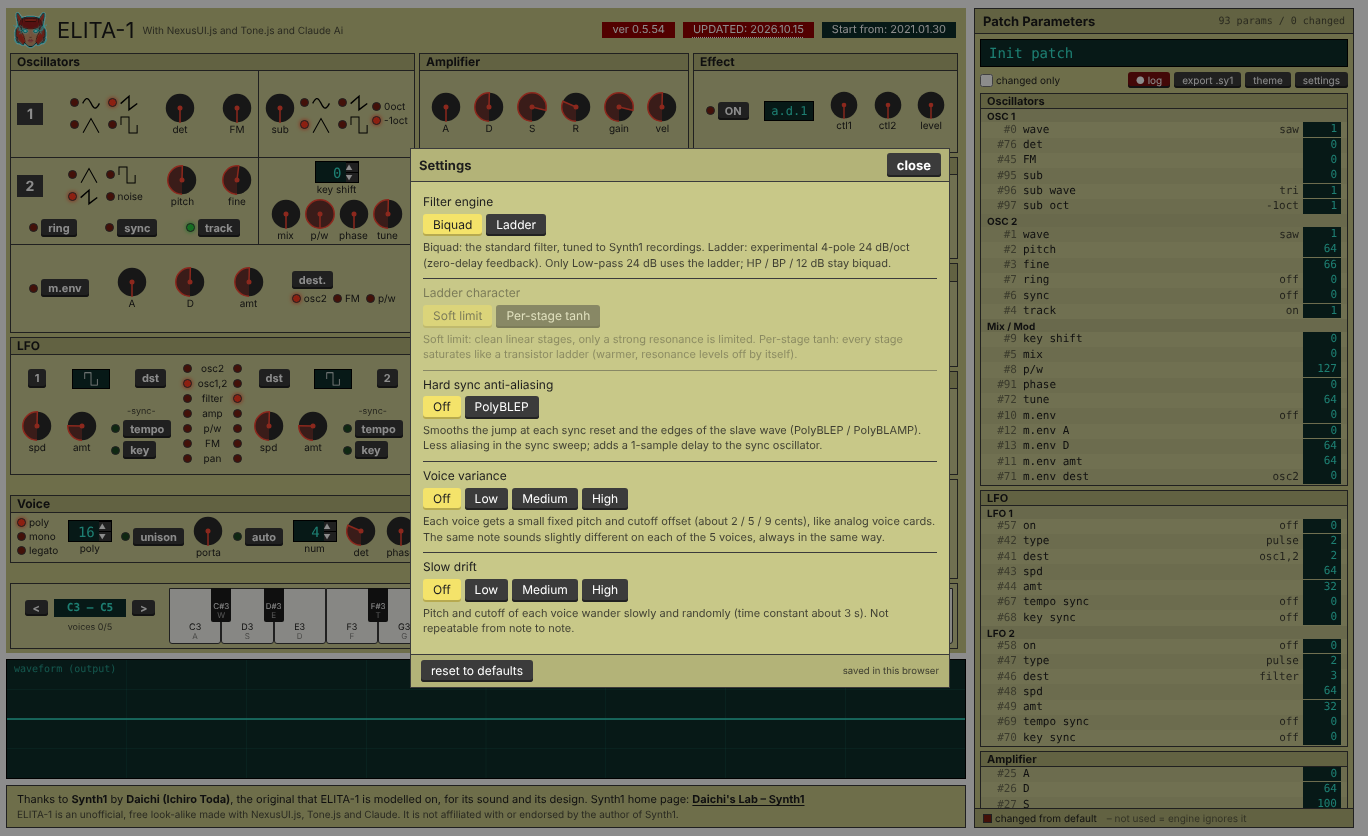
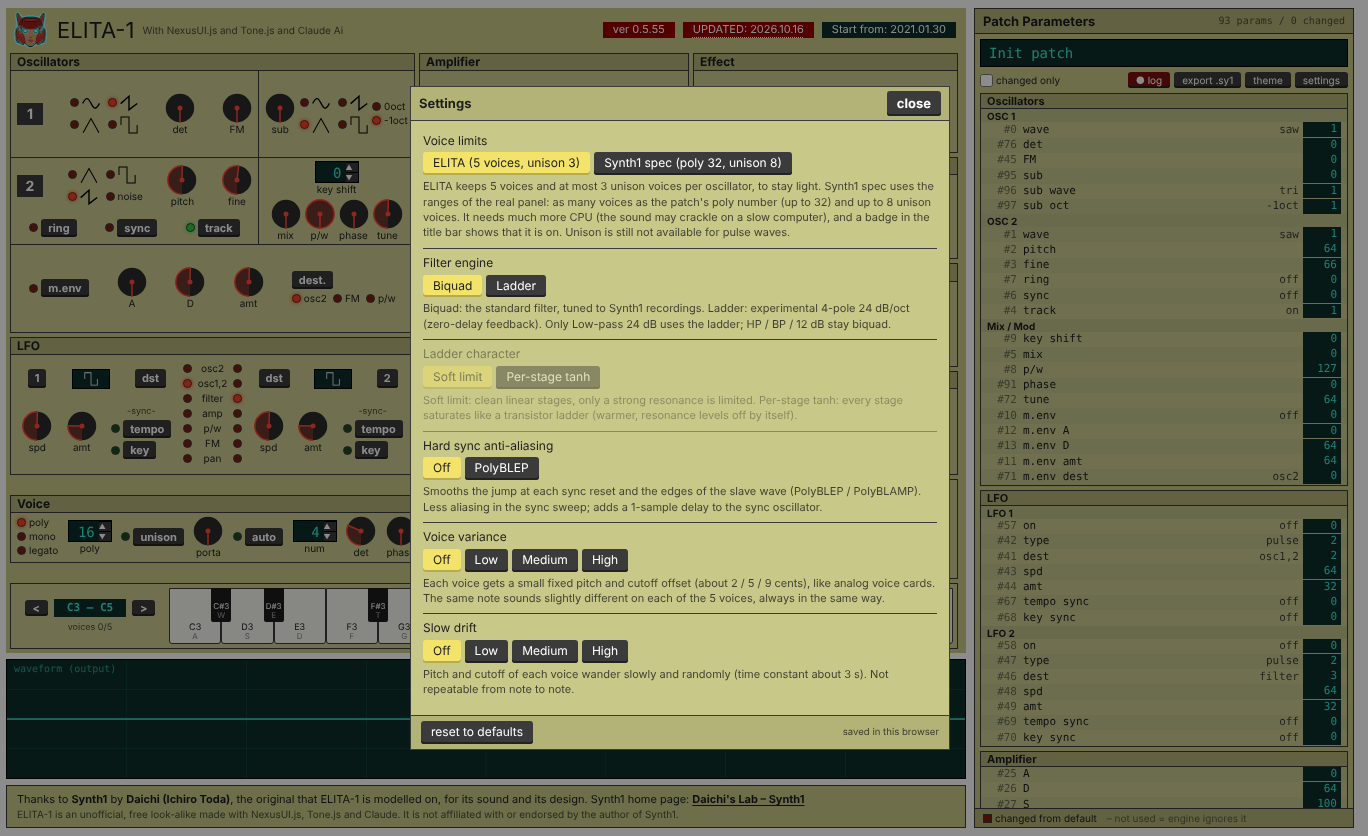
ver 0.5.55 "Synth1"モードを追加
ELITA: 既定です。従来どおり 5 ボイス、unison は 1 オシレーターあたり最大 3 本です。
Synth1 spec: 実機の画面の範囲に合わせます。ボイス数はパッチの poly 値のとおり最大 32、unison は最大 8 本です。

Synth1 spec のあいだは、次の 3 か所でわかるようにしてあります。

タイトルバーに、黄色の「SYNTH1 SPEC MODE」
鍵盤横のボイス表示に「(Synth1 spec)」
Settings ボタンが黄色

選択はブラウザーに保存されます。再読み込みしても、音が始まった時点で反映されます。

確認できたこと

動作は次のとおり確認しました。エラーは出ていません。
5 → 16 → 32 → 5 への切り替え
unison 8（fat 波形 ×8）
poly 32 で 24 音同時
元に戻したあとも普通に鳴ること
ボイス数は、以前は起動時に 5 つ作って固定でした。今回、実行時に増減できるようにしました。減らすときは、余分なボイスを音の経路から外します。

注意点

CPU 負荷: poly 32 は負荷がとても大きいです。この環境のソフトウェア音声では、待機中でも実時間の約半分の速さにしかなりませんでした。poly 16 は実時間どおりです。お使いの PC での目安は未測定です。
pulse 波: Synth1 spec でも、pulse 波の unison には対応していません。Settings の説明にも書いてあります。
今後の課題: 待機中のボイスを止めて負荷を下げる工夫は、今回は入れていません。

https://claude.ai/share/1b4d78f3-2d2d-4339-9bd0-6ce2148783c9

Changed region(s): [[0.2763, 0.0933, 0.7061, 0.9019]]

diff --git a/js/settings.js b/js/settings.js
@@ -1,10 +1,14 @@
 /* Settings window ("settings" button under Patch Parameters).
    Engine options that are not patch parameters. The choice is kept in this browser (localStorage); nothing is sent anywhere.
    Defaults = the sound of ver 0.5.53 (everything below is off or "standard").
-   ELITA.settings = {get(), set(key, value), reset(), items}      keys: filter / ladder / syncAA / slop / drift */
+   ELITA.settings = {get(), set(key, value), reset(), items}      keys: limits / filter / ladder / syncAA / slop / drift
+   "Voice limits" = Synth1 spec lifts the ELITA limits (5 voices, unison 3) to the ranges of the real Synth1 panel (poly up to 32 = the patch's poly number, unison up to 8).
+   While it is on, a badge in the title bar says so. */
 (function () {
   const E = window.ELITA, S = E.core, KEY = 'elita1-settings';
   const ITEMS = [
+    {k: 'limits', title: 'Voice limits', opts: [['elita', 'ELITA (5 voices, unison 3)'], ['synth1', 'Synth1 spec (poly 32, unison 8)']],
+     note: 'ELITA keeps 5 voices and at most 3 unison voices per oscillator, to stay light. Synth1 spec uses the ranges of the real panel: as many voices as the patch\'s poly number (up to 32) and up to 8 unison voices. It needs much more CPU (the sound may crackle on a slow computer), and a badge in the title bar shows that it is on. Unison is still not available for pulse waves.'},
     {k: 'filter', title: 'Filter engine', opts: [['biquad', 'Biquad'], ['ladder', 'Ladder']],
      note: 'Biquad: the standard filter, tuned to Synth1 recordings. Ladder: experimental 4-pole 24 dB/oct (zero-delay feedback). Only Low-pass 24 dB uses the ladder; HP / BP / 12 dB stay biquad.'},
     {k: 'ladder', title: 'Ladder character', opts: [['soft', 'Soft limit'], ['stage', 'Per-stage tanh']], needs: ['filter', 'ladder'],
@@ -16,16 +20,26 @@
     {k: 'drift', title: 'Slow drift', opts: [[0, 'Off'], [1, 'Low'], [2, 'Medium'], [3, 'High']],
      note: 'Pitch and cutoff of each voice wander slowly and randomly (time constant about 3 s). Not repeatable from note to note.'},
   ];
-  const DEF = {filter: 'biquad', ladder: 'soft', syncAA: 0, slop: 0, drift: 0};
+  const DEF = {limits: 'elita', filter: 'biquad', ladder: 'soft', syncAA: 0, slop: 0, drift: 0};
   const SLOP = [0, 2, 5, 9], DRIFT = [0, 2, 4, 8];
   const ok = (k, v) => { const it = ITEMS.find(x => x.k === k); return !!it && it.opts.some(o => o[0] === v); };
   let cur = Object.assign({}, DEF);
   try { const s = JSON.parse(localStorage.getItem(KEY) || 'null'); if (s && typeof s === 'object') Object.keys(DEF).forEach(k => { if (ok(k, s[k])) cur[k] = s[k]; }); } catch (e) { /* no storage */ }
   const save = () => { try { localStorage.setItem(KEY, JSON.stringify(cur)); } catch (e) { /* ignore */ } };
   function apply() {
+    S.LIMITS = cur.limits; badge();
     S.FILTER = cur.filter; S.LADDER_SAT = cur.ladder; S.SYNC_AA = !!cur.syncAA;
     S.analog.slop = SLOP[cur.slop]; S.analog.drift = DRIFT[cur.drift];
     if (E.engine && E.engine.refresh) E.engine.refresh();
+  }
+  // Title-bar badge and highlighted settings button while the Synth1 spec is on
+  function badge() {
+    const on = cur.limits === 'synth1', t = document.getElementById('title');
+    let b = document.getElementById('s1mode');
+    if (on && !b && t) { b = document.createElement('h3'); b.id = 's1mode'; b.className = 's1mode'; b.title = 'Settings > Voice limits: Synth1 spec (poly up to 32, unison up to 8)'; b.textContent = 'SYNTH1 SPEC MODE'; const v = t.querySelector('.version'); t.insertBefore(b, v || null); }
+    if (b) b.hidden = !on;
+    const sb = document.getElementById('pset'); if (sb) sb.classList.toggle('s1on', on);
+    document.body.classList.toggle('s1spec', on);
   }
   function set(k, v) { if (!ok(k, v)) return false; cur[k] = v; save(); apply(); paint(); return true; }
   function reset() { cur = Object.assign({}, DEF); save(); apply(); paint(); }
@@ -48,7 +62,11 @@
   #setdlg .nt{ margin:4px 0 0; font-size:11px; opacity:.8; }
   #setdlg .tf{ display:flex; gap:6px; padding:5px 10px; border-top:1px solid var(--dk); background:var(--hd); align-items:center; }
   #setdlg .tf small{ margin-left:auto; opacity:.8; }
-  #plist .tools button#pset{ background:var(--dk); }`;
+  #plist .tools button#pset{ background:var(--dk); }
+  #plist .tools button#pset.s1on{ background:var(--hi); color:var(--hi-fg); }
+  #title .s1mode{ padding:1px 10px; background:var(--hi); color:var(--hi-fg); font-weight:700; font-size:11px; letter-spacing:.04em; white-space:nowrap; }
+  #title .s1mode[hidden]{ display:none; }
+  #vc{ white-space:nowrap; }`;
   document.head.appendChild(css);
   const dlg = document.createElement('dialog'); dlg.id = 'setdlg';
   dlg.innerHTML = '<div class="th"><span>Settings</span><button type="button" id="setclose">close</button></div><div class="tb">' +
@@ -70,5 +88,5 @@
   dlg.querySelector('#setclose').onclick = () => dlg.close();
   const tools = document.querySelector('#plist .tools');
   if (tools) { const b = document.createElement('button'); b.type = 'button'; b.id = 'pset'; b.textContent = 'settings'; b.title = 'engine settings (filter, hard sync, analog character)'; tools.appendChild(b); b.onclick = () => { paint(); dlg.showModal(); }; }
-  paint();
+  badge(); paint();
 })();

diff --git a/js/engine.js b/js/engine.js
@@ -6,7 +6,7 @@
    Shared state lives in ELITA.core (S). */
 (function () {
 const E = window.ELITA, P = E.params, S = (E.core = E.core || {});
-const {POLY, UNI_MAX} = S, {arp, arpStop, allOff, voiceOn, voiceOff, noteOn, noteOff} = S;
+const {arp, arpStop, allOff, voiceOn, voiceOff, noteOn, noteOff} = S;
 let prevMode = null, prevArp = false;
 async function initAudio() {
   try {
@@ -34,10 +34,20 @@ async function initAudio() {
   S.delay.output.chain(S.panner, S.lim, S.clip, Tone.getDestination());
   S.clip.connect(S.wave);
   window.__n = {fx: S.fx, master: S.master, eq: S.eq, toneLo: S.toneLo, toneHi: S.toneHi, chorus: S.chorus, chorus2: S.chorus2, dli: S.delay.input, dlo: S.delay.output, panner: S.panner, lim: S.lim, clip: S.clip};
-  S.voices = Array.from({length: POLY}, (_, i) => { const v = new S.Voice(S.master, S.lfoOut); v.idx = i; return v; });
+  S.voices = [];
   applyAll();
 }
+// Voice count: ELITA limits = 5 fixed; Synth1 spec = the poly number of the patch (#94, 1..32). Grows on demand and removes the extra voices (their oscillators would keep running otherwise).
+function syncVoices() {
+  const syn = S.LIMITS === 'synth1';
+  S.UNI_MAX = syn ? S.SYNTH1_LIM.uni : 3;
+  S.POLY = syn ? Math.max(1, Math.min(S.SYNTH1_LIM.poly, P[94] || 16)) : 5;
+  if (!S.voices || !S.master) return;
+  if (S.voices.length > S.POLY) { allOff(); S.voices.splice(S.POLY).forEach(v => v.dispose()); }
+  while (S.voices.length < S.POLY) { const v = new S.Voice(S.master, S.lfoOut); v.idx = S.voices.length; S.voices.push(v); }
+}
 function applyAll() {
+  syncVoices();
   S.dbgParams();
   if (P[38] !== prevMode) { prevMode = P[38]; allOff(); }
   if (!!P[59] !== prevArp) { prevArp = !!P[59]; arp.held.length = 0; arpStop(); allOff(); }   // switching the arpeggiator releases held notes   // release everything when the play mode changes
@@ -65,6 +75,6 @@ window.ELITA.onChange = () => refresh();
   window.ELITA.setBpm = v => { v = set(v); if (b) b.value = v; }; }
 window.ELITA.bpm = () => S.BPM;
 setInterval(() => { if (S.voices && S.analog.drift > 0) S.voices.forEach(v => v.setAnalog(S.analog, true)); }, 100);   // slow drift (Settings), only while it is on
-window.ELITA.engine = {refresh, filterMode: m => { if (m === 'ladder' || m === 'biquad') { if (E.settings) E.settings.set('filter', m); else { S.FILTER = m; refresh(); } } return S.FILTER; }, bend: s => { S.BEND = +s || 0; if (S.voices) S.voices.forEach(v => v.freq && v.setPitch(P)); }, rawOn: voiceOn, rawOff: voiceOff, lfoHz: () => S.lfos.map(l => l.frequency.value), start, noteOn, noteOff, allOff, voices: () => S.voices, wave: () => S.wave, POLY, used: S.usedSet, unisonMax: UNI_MAX};
+window.ELITA.engine = {refresh, get POLY() { return S.POLY; }, get unisonMax() { return S.UNI_MAX; }, get limits() { return S.LIMITS; }, filterMode: m => { if (m === 'ladder' || m === 'biquad') { if (E.settings) E.settings.set('filter', m); else { S.FILTER = m; refresh(); } } return S.FILTER; }, bend: s => { S.BEND = +s || 0; if (S.voices) S.voices.forEach(v => v.freq && v.setPitch(P)); }, rawOn: voiceOn, rawOff: voiceOff, lfoHz: () => S.lfos.map(l => l.frequency.value), start, noteOn, noteOff, allOff, voices: () => S.voices, wave: () => S.wave, used: S.usedSet};
 S.scan.push(applyAll);
 })();

diff --git a/js/voice.js b/js/voice.js
@@ -1,7 +1,7 @@
 /* ELITA-1 voice: oscillators (+unison / sub / ring / sync / FM / noise) -> filter -> amp, plus the envelopes and LFO sends of one note. */
 (function () {
 const E = window.ELITA, P = E.params, S = (E.core = E.core || {});
-const {UNI_MAX, REFV, SUBW, OSC1, OSC2, FTYPE, time, CUT_OCT, Q_OFF, cutoff, cutoffLad, LAD_K} = S;
+const {REFV, SUBW, OSC1, OSC2, FTYPE, time, CUT_OCT, Q_OFF, cutoff, cutoffLad, LAD_K} = S;
 const SL1 = [-0.8, 0.7, -0.45, 0.9, -1], SL2 = [0.6, -0.9, 0.75, -0.5, 0.35], SLC = [0.6, -0.4, 0.9, -0.7, 0.2];   // per-voice offsets (-1..1) for OSC1 / OSC2 pitch and the cutoff
 class Voice {
   constructor(out, lfoSrc) {
@@ -26,6 +26,7 @@ class Voice {
     this.fout.connect(this.satPre); this.satPre.connect(this.satShaper); this.satShaper.connect(this.satWet); this.satWet.connect(this.amp);
     this.amp.connect(this.vg); this.vg.connect(out);
     this.sd = lfoSrc.map(l => { const g = new Tone.Gain(0); l.connect(g); return g; });   // LFO depth sends
+    this.lfoSrc = lfoSrc;
     this.dst = [[], []];
     // Sub oscillator: follows OSC1 pitch (0 / -1 oct), no unison
     this.so = new Tone.OmniOscillator({type: 'sine'}); this.sg = new Tone.Gain(0);
@@ -87,6 +88,18 @@ class Voice {
       this.r1.stop(); this.r2.stop(); this.gr1.gain.value = this.gr2.gain.value = 0;
     }
   }
+  // Remove the voice from the audio graph (used when Settings > Voice limits or the poly number lowers the voice count)
+  dispose() {
+    try { this.up(); } catch (e) { /* not started */ }
+    this.lfoSrc.forEach((l, i) => { try { l.disconnect(this.sd[i]); } catch (e) { /* already gone */ } });
+    Object.keys(this).forEach(k => {
+      const x = this[k];
+      (Array.isArray(x) ? x : [x]).forEach(n => {
+        if (!n || typeof n !== 'object' || n === this.lfoSrc) return;
+        try { if (typeof n.dispose === 'function') n.dispose(); else if (typeof n.disconnect === 'function' && !(n instanceof AudioParam)) n.disconnect(); } catch (e) { /* already disposed */ }
+      });
+    });
+  }
   setType(o, t) { if (o.type !== t) o.type = t; }
   // switch the signal path between the biquad filter and the ladder (only reconnects when the choice changed)
   setLadder(on) {
@@ -125,7 +138,7 @@ class Voice {
   // oscillators: unison, mix, ring / sync / noise, sub.  Returns which extra copies are active (lay = unison pitch layer, pan = unison stereo width).
   applyOsc(p) {
     // Unison: fat oscillators (not available for pulse)
-    const uni = p[73] ? Math.max(1, Math.min(UNI_MAX, p[93])) : 1, spread = p[75] / 127 * 100;
+    const uni = p[73] ? Math.max(1, Math.min(S.UNI_MAX, p[93])) : 1, spread = p[75] / 127 * 100;
     const shape = (o, t) => {
       const ty = uni > 1 && t !== 'pulse' ? 'fat' + t : t;
       this.setType(o, ty);

diff --git a/js/calib.js b/js/calib.js
@@ -1,7 +1,9 @@
 /* ELITA-1 calibration: wave tables, unit curves (time, cutoff) and the shared state object ELITA.core. Edit curves here. */
 (function () {
 const E = window.ELITA, S = (E.core = E.core || {});
-const POLY = 5, UNI_MAX = 3, REFV = 0.8;   // voices / unison voices per oscillator (clamped to UNI_MAX: CPU load and a repeatable timbre) / reference velocity (0.8 = PC keys)
+const POLY = 5, UNI_MAX = 3, REFV = 0.8;   // ELITA limits: voices / unison voices per oscillator (clamped: CPU load and a repeatable timbre) / reference velocity (0.8 = PC keys)
+// Settings > Voice limits: 'elita' (the numbers above) or 'synth1' (the ranges of the real Synth1 panel: poly 1..32, unison num 1..8). S.POLY = number of voices that exist, S.UNI_MAX = unison clamp; both are set by engine.js / settings.js.
+const SYNTH1_LIM = {poly: 32, uni: 8};
 // LFO type (#42 / #47): 1 = triangle, 2 = pulse (Telephone patch) and 3 = S&H (Computer patch) are confirmed on Synth1; 0 = saw, 4 = sine, 5 = smooth random are unverified.
 // 3 and 5 are not oscillator waves: they are generated by a random-value timer (see applyFx)
 const LFO_WAVE = ['sawtooth','triangle','square',null,'sine',null];
@@ -39,7 +41,7 @@ const cutoffLad = v => interp(CUT_TAB_LAD, v);
 // Settings (js/settings.js writes these): FILTER 'biquad' | 'ladder'; LADDER_SAT 'soft' | 'stage'; SYNC_AA = PolyBLEP / PolyBLAMP on the hard-sync oscillator;
 // analog.slop = fixed per-voice detune (cents, max) and analog.drift = slow random pitch / cutoff wander (cents, rms-ish). All off by default = the sound of ver 0.5.53.
 Object.assign(S, {LAD_K, cutoffLad, FILTER: 'biquad', LADDER_SAT: 'soft', SYNC_AA: false, analog: {slop: 0, drift: 0}});
-Object.assign(S, {POLY, UNI_MAX, REFV, LFO_WAVE, SUBW, OSC1, OSC2, FTYPE, time, CUT_OCT, Q_OFF, cutoff});
+Object.assign(S, {POLY, UNI_MAX, REFV, SYNTH1_LIM, LIMITS: 'elita', LFO_WAVE, SUBW, OSC1, OSC2, FTYPE, time, CUT_OCT, Q_OFF, cutoff});
 // shared mutable state (written by engine.js / voice.js / js/midi.js; read everywhere as S.xxx)
 Object.assign(S, {BPM: 120, BEND: 0, SYNC_OK: false, voices: null, master: null, panner: null, eq: null, toneLo: null, toneHi: null, lim: null, clip: null, wave: null,
   lfos: null, lfoOut: null, shSig: null, shTimer: [null, null], chorus: null, chorus2: null, delay: null, fx: null, scan: []});

diff --git a/js/debug.js b/js/debug.js
@@ -1,7 +1,6 @@
 /* ELITA-1 debug mode (console helpers). Not needed for playing. */
 (function () {
 const E = window.ELITA, P = E.params, S = (E.core = E.core || {});
-const {POLY, UNI_MAX} = S;
 // ================= debug mode =================
 // Enable:  open the page with ?debug  (or #debug), or run  ELITA.debug.on()  in the console.  Disable: ELITA.debug.off()
 // Console helpers:  ELITA.debug.graph()   signal path of the whole synth (voice + effect chain)
@@ -40,7 +39,7 @@ function dbgNote(kind, n) {
 }
 function pathString(v) {
   const o1 = v.o1, o2 = v.o2, parts = [];
-  const uni = o => o.count > 1 ? ' ×' + o.count + ' unison' + (P[93] > UNI_MAX ? ' (clamped from ' + P[93] + ')' : '') : '';
+  const uni = o => o.count > 1 ? ' ×' + o.count + ' unison' + (P[93] > S.UNI_MAX ? ' (clamped from ' + P[93] + ')' : '') : '';
   if (v.g1.gain.value > 0.0001) parts.push(`OSC1(${o1.type}${uni(o1)}, g=${r3(v.g1.gain.value)})`);
   if (v.g2.gain.value > 0.0001) parts.push(`OSC2(${o2.type}${uni(o2)}, g=${r3(v.g2.gain.value)})`);
   if (v.gr.gain.value > 0.0001) parts.push(`RING(OSC1×OSC2, g=${r3(v.gr.gain.value)})`);
@@ -93,7 +92,7 @@ window.ELITA.debug = {
   graph() {
     if (!S.voices) return console.warn('audio not started yet: click the page or press a key first');
     console.group('%c[ELITA] signal path', C);
-    console.log('Per voice (' + POLY + ' voices):  [OSC1 | OSC2 | RING | SYNC | NOISE | SUB] → FILTER(+filter env) → AMP(+amp env) → sum');
+    console.log('Per voice (' + S.POLY + ' voices):  [OSC1 | OSC2 | RING | SYNC | NOISE | SUB] → FILTER(+filter env) → AMP(+amp env) → sum');
     console.log('Shared:  voice sum → master → EQ → Chorus1 → Chorus2 → Delay → Pan → Limiter → SoftClip → speakers');
     console.log('Modulation: LFO1/LFO2 (shared, all voices), mod envelope (per voice)');
     console.log('Voices'); console.table(S.voices.map(voiceRows));

diff --git a/js/notes.js b/js/notes.js
@@ -1,7 +1,6 @@
 /* ELITA-1 note handling: poly / mono / legato voice allocation, key sync, arpeggiator. */
 (function () {
 const E = window.ELITA, P = E.params, S = (E.core = E.core || {});
-const {POLY} = S;
 // Poly: oldest released voice first, else steal the oldest held one.
 // Mono / legato (#38 = 1 / 2): voice 0 only, last-note priority; legato keeps the envelopes running while notes overlap.
 const stack = [];
@@ -34,7 +33,7 @@ function voiceOn(n, vel = 0.8) {
   }
   if (S.voices.some(v => v.note === n)) return;
   const byAge = (a, b) => a.t - b.t;
-  const pool = S.voices.slice(0, Math.max(1, Math.min(POLY, P[94] || POLY)));
+  const pool = S.voices.slice(0, Math.max(1, Math.min(S.POLY, P[94] || S.POLY)));
   const v = pool.filter(x => !x.on).sort(byAge)[0] || pool.slice().sort(byAge)[0];
   v.down(n, vel);
 }

diff --git a/js/keys.js b/js/keys.js
@@ -39,5 +39,5 @@
   addEventListener('blur', () => E.allOff());
   // first gesture anywhere starts the audio context; status text
   addEventListener('pointerdown', () => E.start(), {once: true});
-  setInterval(() => { const v = E.voices(); $('vc').textContent = v ? 'voices ' + v.filter(x => x.on).length + '/' + E.POLY + ($('vc').dataset.v ? '  vel ' + $('vc').dataset.v : '') : 'click / press a key to start audio'; }, 150);
+  setInterval(() => { const v = E.voices(); $('vc').textContent = v ? 'voices ' + v.filter(x => x.on).length + '/' + E.POLY + (E.limits === 'synth1' ? ' (Synth1 spec)' : '') + ($('vc').dataset.v ? '  vel ' + $('vc').dataset.v : '') : 'click / press a key to start audio'; }, 150);
 })();

diff --git a/index.html b/index.html
@@ -17,8 +17,8 @@
         <span><img src="img/e1.png" alt="ELITA-1 icon" width="37" height="37"></span>
         <h1 class="fs2em">ELITA-1</h1>
         <h2 class="description">With NexusUI.js and Tone.js and Claude Ai</h2>
-        <h3 class="version">ver 0.5.54</h3>
-        <h3 class="date">UPDATED: 2026.10.15</h3>
+        <h3 class="version">ver 0.5.55</h3>
+        <h3 class="date">UPDATED: 2026.10.16</h3>
         <h3 class="date_old">Start from: 2021.01.30</h3>
       </div>
 

diff --git a/README.en.md b/README.en.md
@@ -8,13 +8,17 @@ The panel is built with NexusUI.js and the sound with Tone.js (Web Audio).
 > **This is not a reproduction of Synth1.** The internal structure (OSC → Filter → Amp, LFO, Mod Envelope, effects) follows Synth1, but the mapping from knob values to sound includes guesses, so it will not sound the same as Synth1. It is meant for hearing the general character of a patch.
 > This is an unofficial project and has no connection with the author or distributor of Synth1.
 
-Current version: **ver 0.5.54** (see [history.en.md](history.en.md) for what changed)
+Current version: **ver 0.5.55** (see [history.en.md](history.en.md) for what changed)
 
 ![ELITA-1](docs/screenshot.png)
 
 | Settings | Theme | MIDI input |
 | --- | --- | --- |
 | ![Settings](docs/settings.png) | ![Theme (Dark)](docs/theme.png) | ![MIDI input](docs/midi.png) |
+
+When "Voice limits" in Settings is set to "Synth1 spec", a yellow "SYNTH1 SPEC MODE" badge appears in the title bar (image below).
+
+![Synth1 spec mode](docs/synth1mode.png)
 
 
 ## Features
@@ -24,7 +28,7 @@ Current version: **ver 0.5.54** (see [history.en.md](history.en.md) for what cha
 - Loads `.sy1` patches (a single file, or pick a folder and switch with the ↑↓ keys)
 - Play with the on-screen keyboard and the PC keyboard (with octave shift). Can also be played from external MIDI devices and sequencers (MIDI input, CC learn, clock sync)
 - Oscilloscope display of the output waveform
-- **Settings**: choose the filter engine (Biquad / Ladder), hard-sync anti-aliasing (PolyBLEP), and per-voice variance and drift (see "How it works" below)
+- **Settings**: choose the voice limits (ELITA / Synth1 spec), the filter engine (Biquad / Ladder), hard-sync anti-aliasing (PolyBLEP), and per-voice variance and drift (see "How it works" below)
 - **Themes**: 4 colour themes, with per-colour editing, export and import
 - **MIDI input** (CC learn, BPM sync from MIDI clock), session log, and `.sy1` export
 - Click "UPDATED" at the top of the screen to see the latest entry of `history.md` (`show all` for the whole history). The in-app viewer shows the Japanese `history.md`; the English version is [history.en.md](history.en.md).
@@ -208,6 +212,7 @@ ELITA.loadSy1(text)   // load .sy1 text
 
 **Settings** (the "settings" button at the bottom of Patch Parameters): these are not patch parameters; they choose how the engine behaves. Your choices are saved in this browser (`localStorage`). All defaults give the same sound as before (0.5.53).
 
+- **Voice limits**: ELITA (default: 5 voices, at most 3 unison voices per oscillator, to stay light) / Synth1 spec (the ranges of the real panel: as many voices as the patch's poly number, up to 32, and up to 8 unison voices). While Synth1 spec is on, a yellow "SYNTH1 SPEC MODE" badge is shown in the title bar, "(Synth1 spec)" appears next to the voice counter at the keyboard, and the settings button is lit yellow. CPU load becomes much higher (idle voices keep running too), and the sound may crackle on a slow computer. Unison for pulse waves is still not supported in this mode.
 - **Filter engine**: Biquad (default, tuned to Synth1 recordings) / Ladder (experimental, 4-pole 24 dB/oct). Only the low-pass 24 dB type uses the ladder. The former `?filter=ladder` URL option has been removed.
 - **Ladder character**: Soft limit (default) / Per-stage tanh (tanh on every stage, transistor-ladder style).
 - **Hard sync anti-aliasing**: Off (default) / PolyBLEP. Reduces aliasing from the sync reset and the edges of the slave wave (measured: about 15–20 dB less aliased energy).
@@ -298,11 +303,11 @@ The 128 sounds equivalent to the Synth1 factory presets (all `ver=105`, paramete
 
 ### Other
 
-- The voice count is fixed at 5 (`POLY` in `calib.js`). It differs from the maximum polyphony of Synth1.
+- By default the voice count is 5 (`POLY` in `calib.js`). To match the range of the Synth1 panel (poly up to 32), set "Voice limits" in Settings to "Synth1 spec".
 - MIDI input works only with Web MIDI (Chrome / Edge). MIDI output, program change and the MIDI `#50` / `#51` / `#86–89` (sens group) are not supported.
 - The screen has a fixed width (960 px for the main part plus 380 px for the parameter list on the right) and is not optimised for a phone in portrait. Touch playing is possible with the on-screen keyboard.
 - The latest versions of Chrome / Edge / Firefox / Safari are assumed. Hard sync (OSC2 sync) uses an AudioWorklet, so it is disabled where AudioWorklet is unavailable.
-- Unison is limited to 3 voices for CPU load and repeatable timbre (`UNI_MAX` in `calib.js`). When a patch's `#93` is 4 or more, it is clamped to 3 and the parameter list shows `clamped → 3`. Pulse waves are not unisoned (while an OSC is pulse it stays a single voice even with unison ON; for example ebm bass).
+- By default unison is limited to 3 voices for CPU load and repeatable timbre (`UNI_MAX` in `calib.js`; 8 in "Synth1 spec"). When a patch's `#93` is above the limit, it is clamped to the limit and the parameter list shows `clamped → 3`. Pulse waves are not unisoned (while an OSC is pulse it stays a single voice even with unison ON; for example ebm bass).
 - CPU load in long continuous playback, or with many voices + unison + 2 chorus stages, has not been checked.
 
 ## Ideas for later

diff --git a/history.md b/history.md
@@ -5,6 +5,14 @@
 バージョンを上げるときは、ここに「何をしたか」を追記します（新しいものが上）。
 バージョンの数字は Claude が判断して上げ、上げる前に確認を取ります。表示は `index.html` のバージョン表示と UPDATED の日付です。
 
+## ver 0.5.55 — 2026.10.16
+
+- **Settings に「Voice limits」を追加**: ELITA（既定。5 ボイス、unison 最大 3）/ **Synth1 spec**（実機の画面の範囲。ボイス数はパッチの poly 値（`#94`、1〜32）のとおり、unison は最大 8）。Synth1 spec のあいだは、タイトルバーに黄色の「SYNTH1 SPEC MODE」、鍵盤横の表示に「(Synth1 spec)」、Settings ボタンの黄色表示で、そのことを画面に明示します。選択はブラウザーに保存されます。
+- ボイス数が実行時に変わるようにしました（以前は起動時に 5 つ作って固定）: 必要な数まで増やし、減らすときは余分なボイスを音の経路から外します（待機中でも発振が動き続けるため）。`Voice.dispose()` を追加。`S.POLY` / `S.UNI_MAX` が現在の上限で、`ELITA.engine.POLY` / `unisonMax` / `limits` から読めます。
+- 計測（このコンテナのソフトウェア音声での相対値）: ELITA（5 ボイス）と Synth1 spec の poly 16 は実時間どおり、poly 32 は待機中でも実時間の約半分の速さしか進みません。つまり、poly 32 と unison 8 は負荷が非常に大きく、実機での目安は未測定です。ボイス数の増減と unison 8（fat 波形 ×8）、poly 32 での 24 音同時発音は、エラーなく動きました。
+- 未対応のまま: Synth1 spec でも、パルス波の unison は対応していません（Tone.js の fat oscillator に pulse がないため）。待機中のボイスを止めて負荷を下げる工夫も、今後の課題です。
+- README（日本語・英語）と画面画像を更新。`docs/synth1mode.png` を追加。
+
 ## ver 0.5.54 — 2026.10.15
 
 - **Settings 画面を追加**（Patch Parameters 下部の「settings」ボタン、`js/settings.js`）: エンジンの動作を選べます。選択はブラウザーに保存。**`?filter=ladder` は廃止**し、「Filter engine（Biquad / Ladder）」で選ぶようにしました。既定値はすべて従来と同じ音です。

diff --git a/history.en.md b/history.en.md
@@ -6,6 +6,14 @@ When the version is raised, what was done is added here (newest first).
 Claude decides when to raise the version number and asks for confirmation first. The version shown on screen is the version label and the UPDATED date in `index.html`.
 The in-app "UPDATED" window reads the Japanese `history.md`; this file is the English copy.
 
+## ver 0.5.55 — 2026.10.16
+
+- **Added "Voice limits" to Settings**: ELITA (default: 5 voices, unison up to 3) / **Synth1 spec** (the ranges of the real panel: the voice count follows the patch's poly number (`#94`, 1–32) and unison goes up to 8). While Synth1 spec is on, the screen says so: a yellow "SYNTH1 SPEC MODE" badge in the title bar, "(Synth1 spec)" next to the voice counter at the keyboard, and the settings button lit yellow. The choice is saved in the browser.
+- The voice count can now change at run time (before, 5 voices were created at start-up and fixed): voices are added up to the needed number, and when the count goes down the extra voices are removed from the audio graph (idle voices keep their oscillators running). Added `Voice.dispose()`. `S.POLY` / `S.UNI_MAX` are the current limits, readable through `ELITA.engine.POLY` / `unisonMax` / `limits`.
+- Measurement (relative values with this container's software audio): ELITA (5 voices) and Synth1 spec with poly 16 run in real time; with poly 32 the audio clock advances at only about half of real time even when idle. So poly 32 with unison 8 is very heavy, and what to expect on a real machine has not been measured. Changing the voice count, unison 8 (fat waves ×8) and 24 simultaneous notes with poly 32 all worked without errors.
+- Still not supported: unison for pulse waves, even in Synth1 spec (Tone.js fat oscillators have no pulse). Stopping idle voices to reduce the load is a task for later.
+- Updated the README (Japanese and English) and the screenshots. Added `docs/synth1mode.png`.
+
 ## ver 0.5.54 — 2026.10.15
 
 - **Added a Settings window** (the "settings" button below Patch Parameters, `js/settings.js`): lets you choose how the engine behaves. The choice is saved in the browser. **`?filter=ladder` is removed**; use "Filter engine (Biquad / Ladder)" instead. All defaults give the same sound as before.
